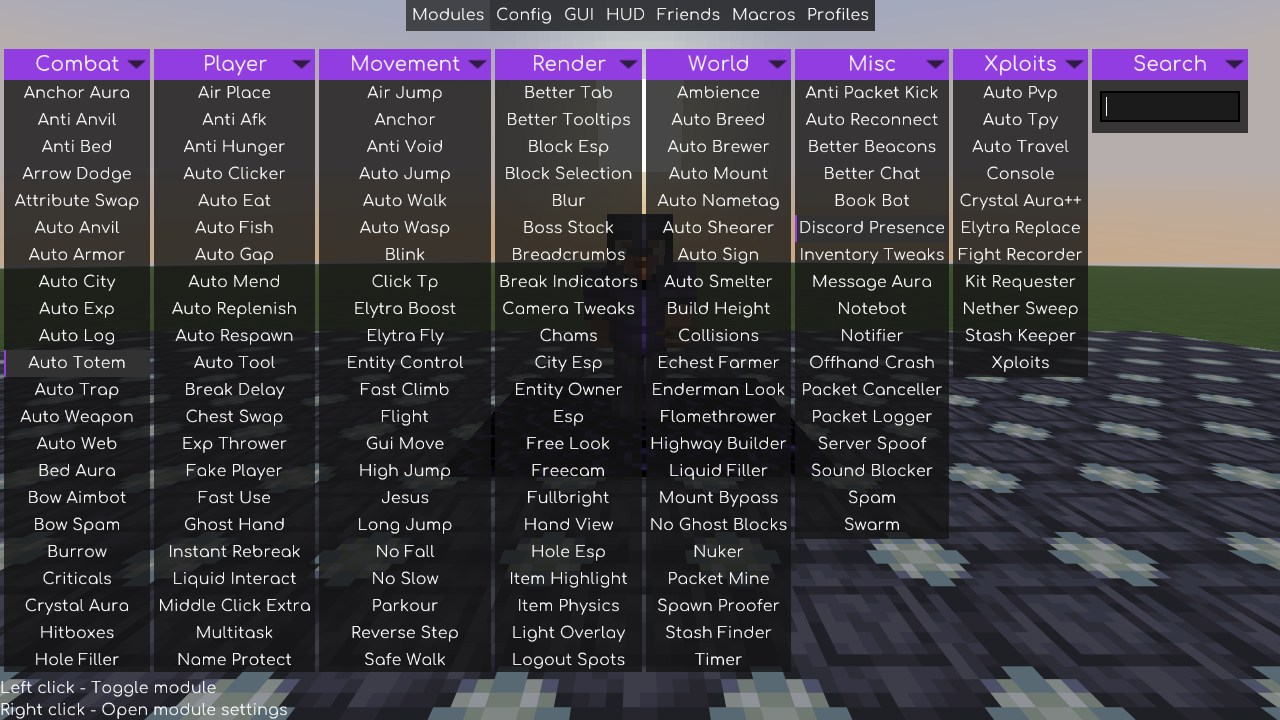
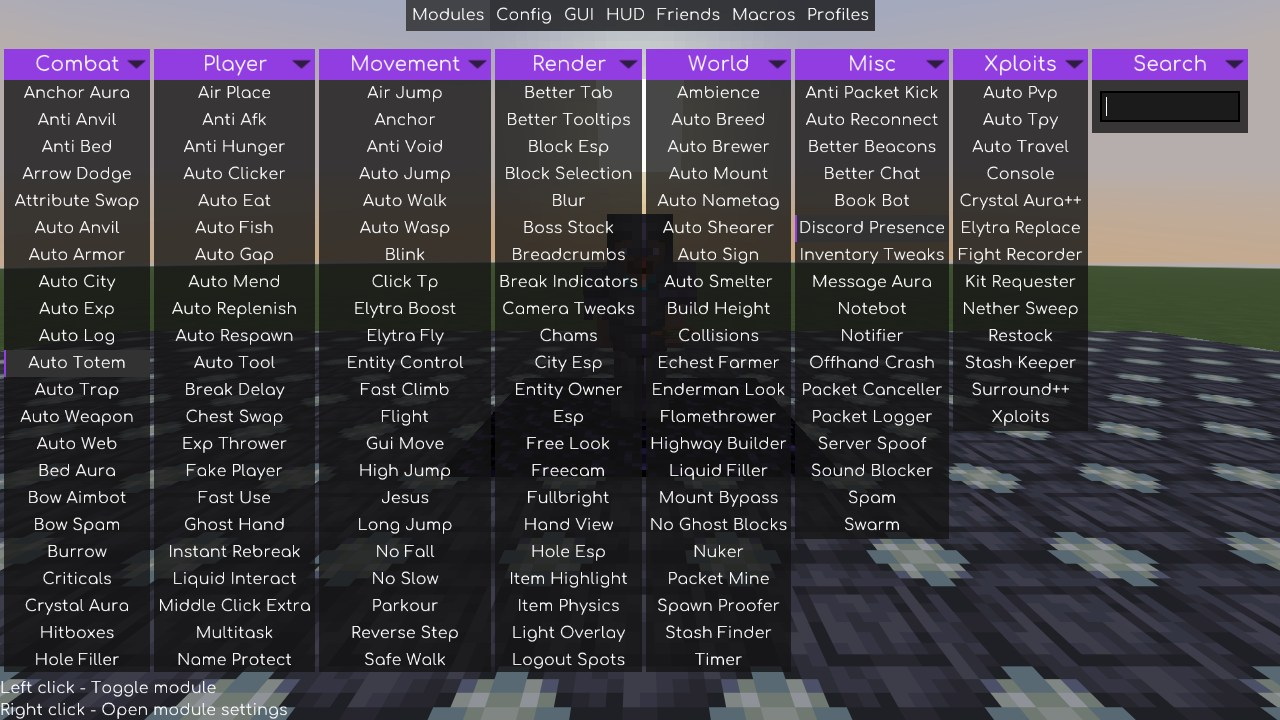
docs: ClickGUI picture with restock, and restock's settings in its section
The old ClickGUI picture predates restock and surround++, so the Xploits column missed both; restock's section gets a picture of its settings.

Changed region(s): [[0.7188, 0.4583, 0.875, 0.6111]]

diff --git a/README.md b/README.md
@@ -478,6 +478,8 @@ It needs Windows Terminal, which is the default console in Windows 11.
 > Try it first in a safe place, with materials you can afford to lose, and follow the
 > [in-game checklist](docs/restock-checklist.md). Every case, with what to do: [known issues](docs/known-issues.md).
 
+![restock's settings in Meteor's ClickGUI](docs/images/restock.jpg)
+
 Build as you do today, with [Litematica](https://modrinth.com/mod/litematica) and
 `litematica-printer`, or by hand. Select the placement in Litematica, mark your chests and turn `restock` on:
 

diff --git a/README.es.md b/README.es.md
@@ -489,6 +489,8 @@ Necesita Windows Terminal, que es la consola por defecto de Windows 11.
 > [lista de prueba en el juego](docs/restock-checklist.md). Todos los casos, con qué hacer:
 > [problemas conocidos](docs/known-issues.md).
 
+![Los ajustes de restock en la ClickGUI de Meteor](docs/images/restock.jpg)
+
 Construye como hoy, con [Litematica](https://modrinth.com/mod/litematica) y `litematica-printer`, o
 a mano. Selecciona la colocación en Litematica, marca tus cofres y enciende `restock`:
 
